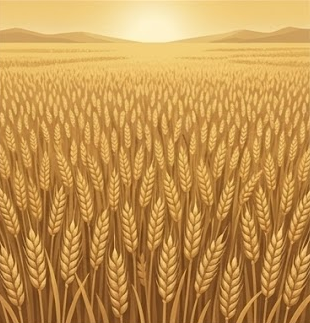
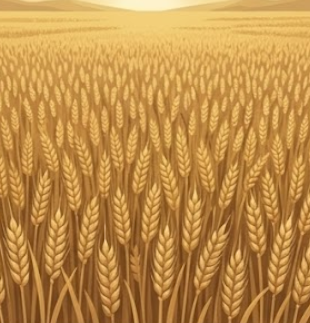
Refactor game leave logic: simplify lobby ID handling and ensure fallback to currentLobbyId

diff --git a/packages/client/src/screens/GameScreen.tsx b/packages/client/src/screens/GameScreen.tsx
@@ -28,7 +28,7 @@ import { socket } from '../socket.js';
 export function GameScreen() {
   const gameState = useGameStore((s) => s.gameState);
   const clearGame = useGameStore((s) => s.clearGame);
-  const { myPlayerId } = usePlayerStore();
+  const { myPlayerId, currentLobbyId } = usePlayerStore();
   const currentLobby = useLobbyStore((s) => s.currentLobby);
   const setCurrentLobby = useLobbyStore((s) => s.setCurrentLobby);
   const validMoves = useValidMoves(gameState, myPlayerId);
@@ -58,15 +58,15 @@ export function GameScreen() {
   const totalSeconds = 60; // rough fallback; could derive from settings
 
   const onLeave = () => {
-    if (currentLobby) {
-      socket.emit('game:leave', { lobbyId: currentLobby.id }, (res) => {
-        if (res.ok) {
-          clearGame();
-          setCurrentLobby(null);
-          usePlayerStore.getState().setLobbyId(null);
-        }
-      });
-    }
+    const lobbyId = currentLobby?.id ?? currentLobbyId;
+    if (!lobbyId) return;
+    socket.emit('game:leave', { lobbyId }, (res) => {
+      if (res.ok) {
+        clearGame();
+        setCurrentLobby(null);
+        usePlayerStore.getState().setLobbyId(null);
+      }
+    });
   };
 
   const sidePanel = (